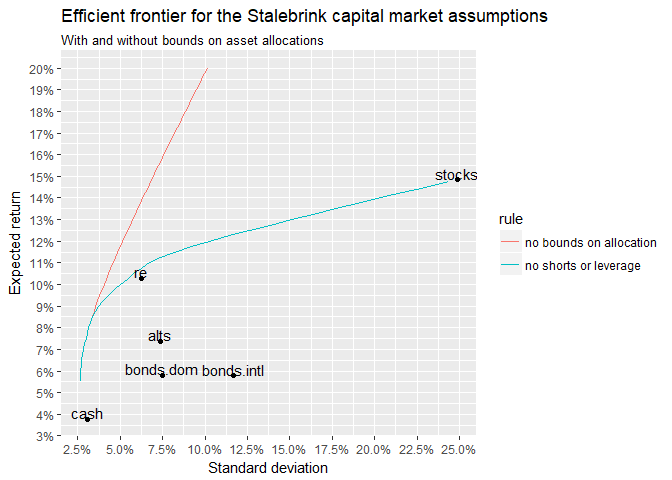
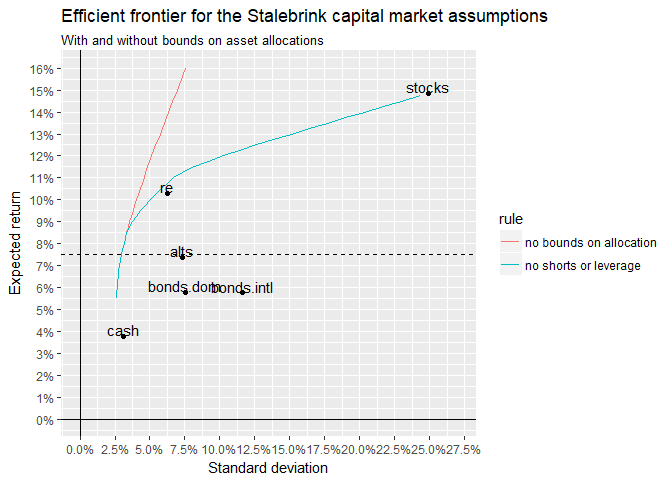
Added Horizon 2017 to readme

diff --git a/README.md b/README.md
@@ -246,11 +246,14 @@ cormat2 %>% round(., 2)
 #> cash                         0.21 -0.12  0.03       -0.12  0.00
 ```
 
-### Get and graph the efficient frontier
+### Get and graph the efficient frontier for Stalebrink assumptions
 
 ``` r
-ef.nobound <- efrontier(seq(.00, .20, .0025), stalebrink$ersd, stalebrink$cormat)
-ef.noshort <- efrontier(seq(.00, .20, .0025), stalebrink$ersd, stalebrink$cormat, 0, 1)
+
+ds <- stalebrink
+
+ef.nobound <- efrontier(seq(.00, .30, .0025), ds$ersd, ds$cormat)
+ef.noshort <- efrontier(seq(.00, .30, .0025), ds$ersd, ds$cormat, 0, 1)
 
 # create a data frame with just the data we want
 efdf <- bind_rows(ef.nobound$efrontier %>% mutate(rule="no bounds on allocation"),
@@ -259,12 +262,46 @@ efdf <- bind_rows(ef.nobound$efrontier %>% mutate(rule="no bounds on allocation"
 
 ggplot() +
   geom_line(data=efdf, aes(psd, per, colour=rule)) +
-  scale_x_continuous(name="Standard deviation", breaks=seq(0, .3, .025), labels = scales::percent) +
-  scale_y_continuous(name="Expected return", breaks=seq(0, .2, .01), labels = scales::percent) +
+  scale_x_continuous(name="Standard deviation", breaks=seq(0, .5, .025), limits=c(0, .27), labels = scales::percent) +
+  scale_y_continuous(name="Expected return", breaks=seq(0, .5, .01), limits=c(0, .16), labels = scales::percent) +
   ggtitle("Efficient frontier for the Stalebrink capital market assumptions", subtitle="With and without bounds on asset allocations") +
   # now add the asset-class points
   geom_point(data=ef.nobound$ersd, aes(x=sd, y=er)) +
-  geom_text(data=ef.nobound$ersd, aes(x=sd, y=er, label=class), nudge_y = +.003)
+  geom_text(data=ef.nobound$ersd, aes(x=sd, y=er, label=class), nudge_y = +.003) +
+  geom_hline(yintercept = 0) +
+  geom_vline(xintercept = 0) +
+  geom_hline(yintercept = .075, linetype="dashed")
+#> Warning: Removed 56 rows containing missing values (geom_path).
 ```
 
 <img src="man/figures/README-efrontier-1.png" width="100%" />
+
+### Repeat for the Horizon 2017 10-year assumptions
+
+``` r
+
+ds <- horizon10year2017
+
+ef.nobound <- efrontier(seq(.00, .30, .0025), ds$ersd, ds$cormat)
+ef.noshort <- efrontier(seq(.00, .30, .0025), ds$ersd, ds$cormat, 0, 1)
+
+# create a data frame with just the data we want
+efdf <- bind_rows(ef.nobound$efrontier %>% mutate(rule="no bounds on allocation"),
+                  ef.noshort$efrontier %>% mutate(rule="no shorts or leverage")) %>%
+  filter(type=="high", !is.na(per))
+
+ggplot() +
+  geom_line(data=efdf, aes(psd, per, colour=rule)) +
+  scale_x_continuous(name="Standard deviation", breaks=seq(0, .5, .025), limits=c(0, .27), labels = scales::percent) +
+  scale_y_continuous(name="Expected return", breaks=seq(0, .5, .01), limits=c(0, .16), labels = scales::percent) +
+  ggtitle("Efficient frontier for the Horizon 2017 average 10-year capital market assumptions", subtitle="With and without bounds on asset allocations") +
+  # now add the asset-class points
+  geom_point(data=ef.nobound$ersd, aes(x=sd, y=er)) +
+  geom_text(data=ef.nobound$ersd, aes(x=sd, y=er, label=class), nudge_y = +.003) +
+  geom_hline(yintercept = 0) +
+  geom_vline(xintercept = 0) +
+  geom_hline(yintercept = .075, linetype="dashed")
+#> Warning: Removed 57 rows containing missing values (geom_path).
+```
+
+<img src="man/figures/README-unnamed-chunk-1-1.png" width="100%" />
